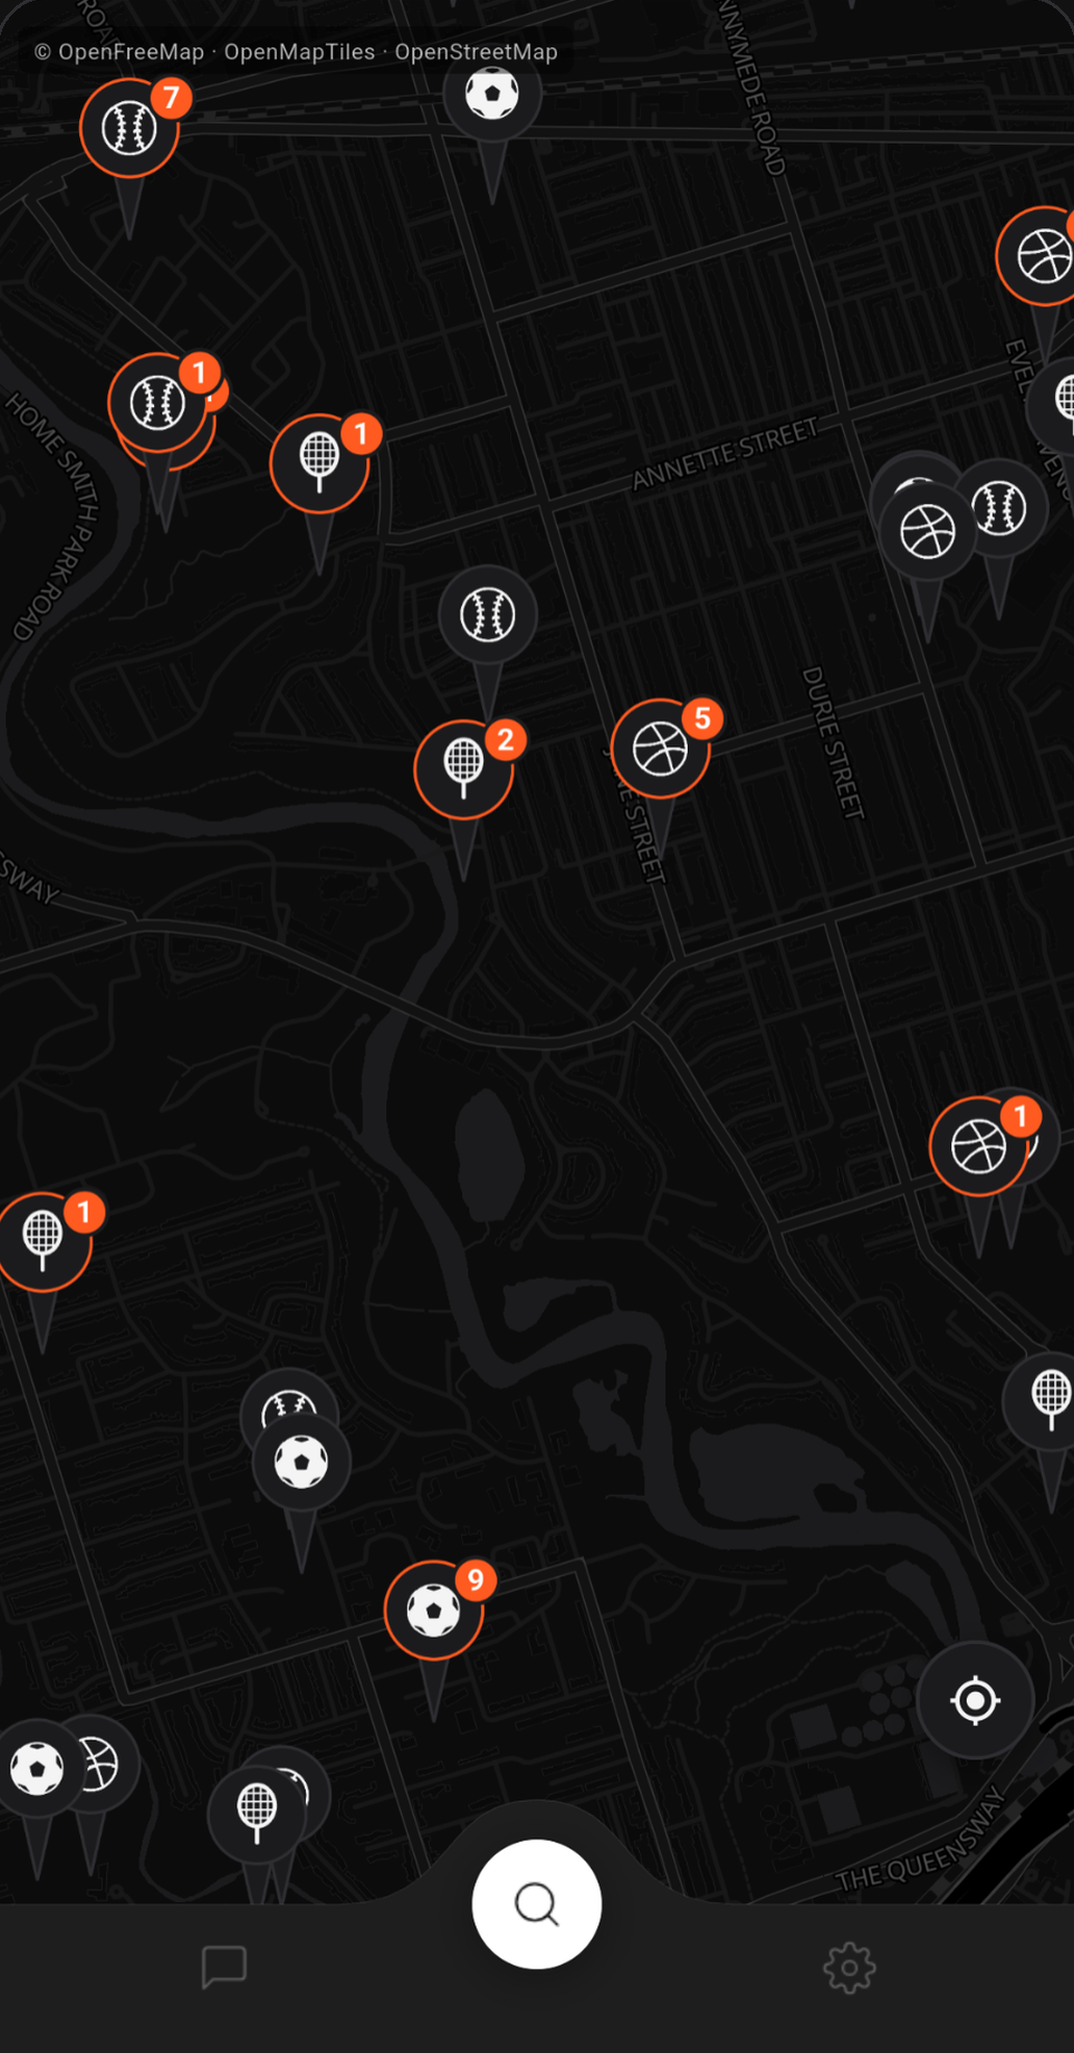
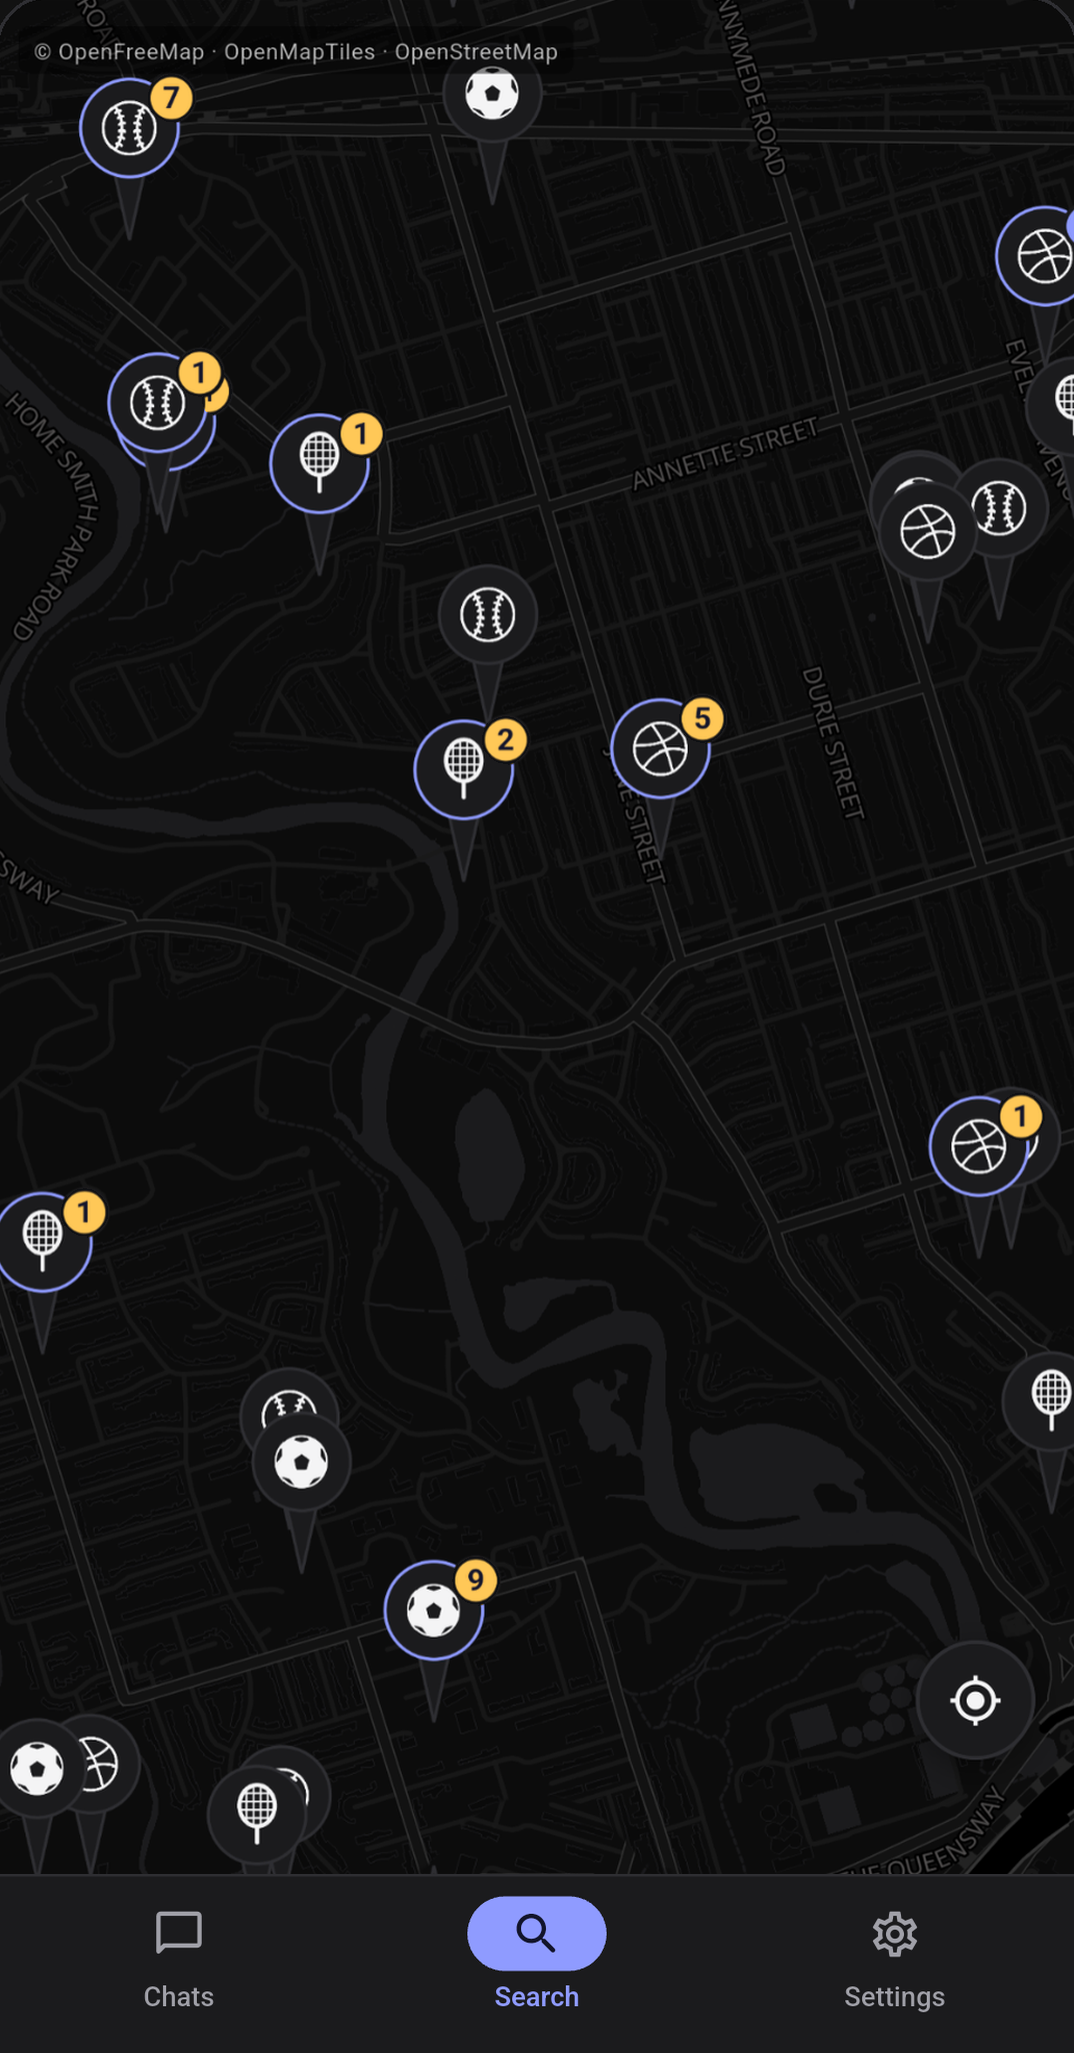
changed all the colors to the new color theme amber and periwinckle and swapped out the screenshots to match.

diff --git a/src/styles/global.css b/src/styles/global.css
@@ -10,8 +10,13 @@
   --border:      #2E2E32;
   --text:        #F4F4F5;
   --text-muted:  #A0A0A8;
-  --accent:      #FF5A1F;
-  --accent-dark: #E14A12;
+  --accent:      #8F9BFF;                  /* periwinkle: anything clickable or selected */
+  --accent-dark: #6F7CF0;                  /* hover / pressed / borders */
+  --accent-tint: rgba(143, 155, 255, 0.15); /* soft background behind highlighted items */
+  --on-accent:   #12142B;                  /* dark text on periwinkle (not white) */
+  --amber:       #FFC857;                  /* players only, never buttons or large areas */
+  --warning:     #FF8A80;                  /* warnings only */
+  --danger:      #FF453A;                  /* delete / destructive actions */
 
   /* Type */
   --font-display: 'Anton', system-ui, sans-serif;
@@ -89,7 +94,7 @@ h3 { font-size: 1.15rem; font-family: var(--font-body); font-weight: 650;
 .btn {
   display: inline-block;
   background: var(--accent);
-  color: #fff;
+  color: var(--on-accent);
   font-weight: 650;
   font-size: 1rem;
   padding: 0.9rem 1.6rem;
